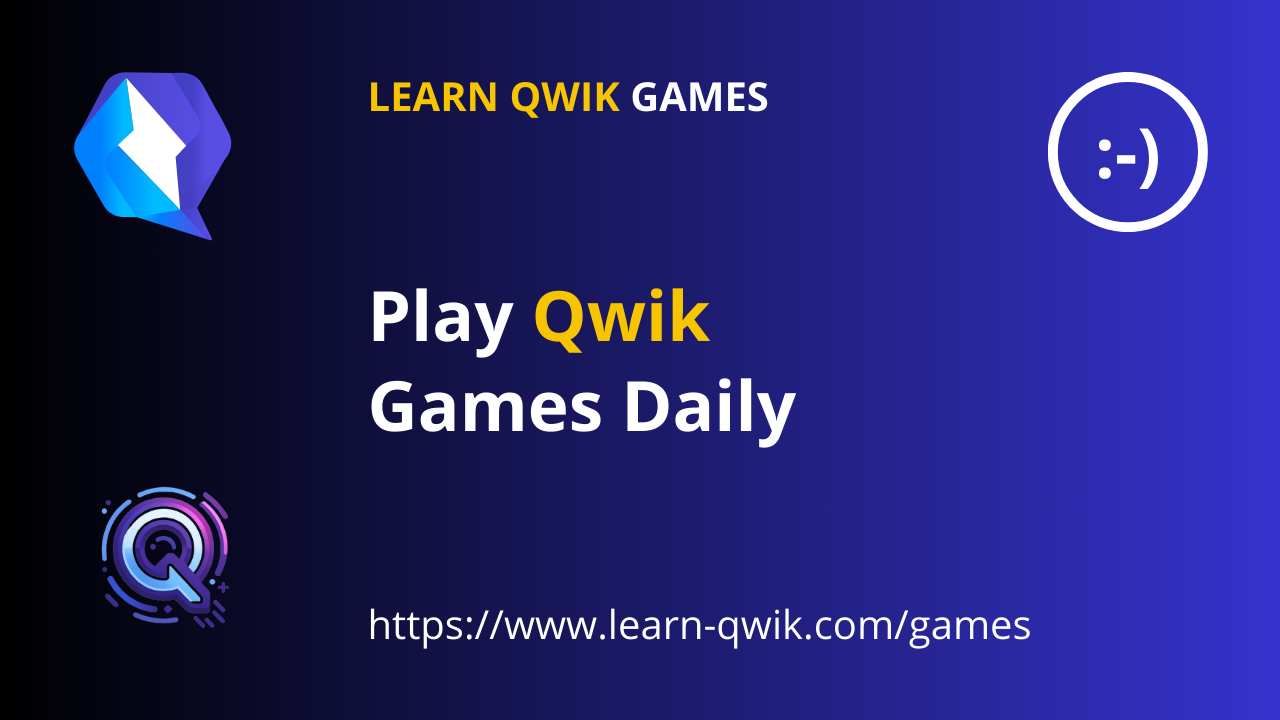
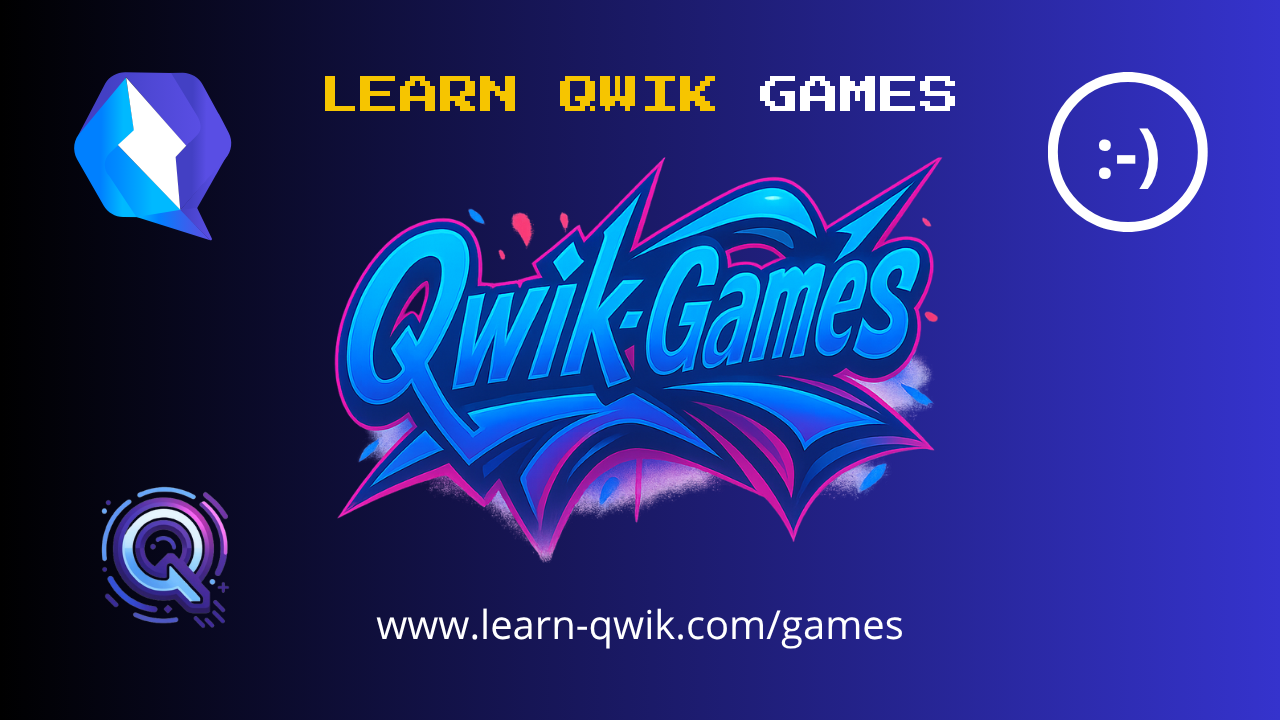
Added Retro Font and Updated Styles: Integrated the 'Press Start 2P' font into the global.css file, extended the Tailwind configuration to include the new font, and improved the game components with style adjustments for better presentation.

diff --git a/src/components/games/game/qwikpath/qwikpathContent.tsx b/src/components/games/game/qwikpath/qwikpathContent.tsx
@@ -81,12 +81,16 @@ export const QwikPathContent = component$(() => {
   `);
 
   return (
-    <div class="relative flex min-h-screen w-full flex-col items-center gap-8 bg-white py-12 md:px-12 md:py-20">
+    <div class="relative flex min-h-screen w-full flex-col items-center gap-8 bg-white py-12 font-retro md:px-12 md:py-20">
       <header class="flex flex-col items-center gap-4 px-4 md:gap-8">
-        <h1 class="max-w-[80%] text-center text-4xl font-semibold md:max-w-[100%] md:text-6xl">
-          <span class="text-blue-500">Qwik</span> Path | Daily Logic Puzzle
-        </h1>
-        <QwikPathGraf class="h-[200px] w-[300px] object-cover  md:h-[300px] md:w-[450px]" />
+        <h1 class="sr-only">Qwik Path | Daily Logic Puzzle</h1>
+
+        <QwikPathGraf class="h-[200px] w-[300px] object-cover md:h-[300px] md:w-[450px] lg:h-[400px] lg:w-[600px]" />
+
+        <p class="max-w-xl text-center text-2xl font-semibold text-gray-900 md:text-3xl">
+          Daily Logic Puzzle
+        </p>
+
         <p class="max-w-xl text-center text-gray-900">
           Connect numbers in order and fill every cell. A new puzzle every day,
           powered by Qwik.
@@ -96,11 +100,11 @@ export const QwikPathContent = component$(() => {
       <main class="relative flex w-full max-w-screen-xl flex-col justify-center gap-4 px-4 md:flex-row">
         <div class="flex w-full flex-col gap-8 md:max-w-[calc(100%-300px)]">
           <section class="w-full">
-            <div class=" flex items-center justify-between py-4">
-              <h2 class=" text-center text-2xl font-bold text-gray-900 ">
+            <div class=" flex items-center justify-between gap-8 py-4">
+              <h2 class=" text-center text-xl font-bold text-gray-900 ">
                 Top Players
               </h2>
-              <p class=" text-center text-xl font-bold text-gray-500 ">
+              <p class=" text-center text-base font-bold text-gray-500 ">
                 {totalPlayers.value?.toLocaleString()} players in total
               </p>
             </div>
@@ -164,7 +168,7 @@ export const QwikPathContent = component$(() => {
           </section>
 
           <section class="w-full">
-            <h2 class="mb-6 text-center text-2xl font-bold text-gray-900 md:text-left">
+            <h2 class="mb-6 text-center text-xl font-bold text-gray-900 md:text-left">
               Available Levels
             </h2>
             <div class="levels_grid">
@@ -182,7 +186,7 @@ export const QwikPathContent = component$(() => {
           </section>
 
           <section class="w-full">
-            <h2 class="mb-6 text-center text-2xl font-bold text-gray-900 md:text-left">
+            <h2 class="mb-6 text-center text-xl font-bold text-gray-900 md:text-left">
               Completed Levels
             </h2>
 
@@ -212,7 +216,7 @@ export const QwikPathContent = component$(() => {
           </section>
         </div>
 
-        <BackButton href="/games/" label="Back to Games" />
+        <BackButton href="/games/" label="Games" />
 
         {!isSubscribed && <DesktopStickyAd />}
       </main>

diff --git a/src/components/games/game/qwikpath/qwikPathLevel.tsx b/src/components/games/game/qwikpath/qwikPathLevel.tsx
@@ -1,8 +1,11 @@
+// src/components/games/game/qwikpath/qwikPathLevel.tsx
+
 import { component$, useStylesScoped$ } from "@builder.io/qwik";
 import { BackButton } from "~/components/UI/backButton/backButton";
 import { DesktopStickyAd } from "~/components/desktopStickyAd/desktopStickyAd";
 import { MobileStickyAd } from "~/components/mobileStickyAd/mobileStickyAd";
 
+import QwikPathGraf from "~/assets/img/games/game/gamePath/qwik-path-graf.png?jsx";
 import {
   useCompletedLevel,
   useLevel,
@@ -145,12 +148,16 @@ export const QwikPathLevel = component$(() => {
   }
 
   return (
-    <div class="relative flex min-h-screen w-full flex-col items-center gap-8 bg-white py-12 md:px-12 md:py-20">
+    <div class="relative flex min-h-screen w-full flex-col items-center gap-8 bg-white py-12 font-retro md:px-12 md:py-20">
       <header class="flex flex-col items-center gap-4 px-4 md:gap-6">
-        <h1 class="text-center text-4xl font-bold md:text-6xl">
-          <span class="text-blue-500">Qwik</span> Path | Level{" "}
-          {level.value.level_number}
-        </h1>
+        <h1 class="sr-only">Qwik Path | Level {level.value.level_number}</h1>
+
+        <QwikPathGraf class="h-[200px] w-[300px] object-cover md:h-[300px] md:w-[450px] lg:h-[400px] lg:w-[600px]" />
+
+        <p class="text-center text-2xl font-bold md:text-4xl">
+          Level {level.value.level_number}
+        </p>
+
         <p class="max-w-xl text-center text-gray-700">
           Connect the numbers in order and fill every cell of the grid to win.
         </p>
@@ -160,10 +167,10 @@ export const QwikPathLevel = component$(() => {
         <section class="flex w-full flex-col gap-6 md:max-w-[calc(100%-300px)]">
           <section class="w-full ">
             <div class=" flex items-center justify-between py-4">
-              <h2 class=" text-center text-2xl font-bold text-gray-900 md:text-left">
-                Top Players – Level {level.value.level_number}
+              <h2 class=" text-center text-xl font-bold text-gray-900 md:text-left">
+                Top Players | Level {level.value.level_number}
               </h2>
-              <p class=" text-center text-xl font-bold text-gray-500 ">
+              <p class=" text-center text-base font-bold text-gray-500 ">
                 {totalPlayersForLevel.value?.toLocaleString()} players in total
               </p>
             </div>
@@ -240,7 +247,7 @@ export const QwikPathLevel = component$(() => {
           {renderGameContent()}
         </section>
 
-        <BackButton href="/games/game/path/" label="Back to Levels" />
+        <BackButton href="/games/game/path/" label="Levels" />
 
         {!isSubscribed && <DesktopStickyAd />}
       </main>

diff --git a/src/components/games/game/qwikpath/levelCard.tsx b/src/components/games/game/qwikpath/levelCard.tsx
@@ -1,5 +1,6 @@
 import { component$ } from "@builder.io/qwik";
 import { Link } from "@builder.io/qwik-city";
+import { HiArrowRightSolid } from "@qwikest/icons/heroicons";
 
 interface LevelCardProps {
   levelNumber: number;
@@ -21,19 +22,19 @@ export const LevelCard = component$<LevelCardProps>(
       "bg-gray-500";
 
     return (
-      <div class="relative w-full rounded-xl bg-gradient-to-br from-slate-900 to-slate-800 p-4 text-white shadow-md transition-transform hover:-translate-y-1 hover:shadow-lg">
+      <div class="relative w-full  rounded-xl bg-[#1f1f1f] p-4 text-[#e0e0e0] shadow-md transition-transform hover:-translate-y-1 hover:text-white hover:shadow-lg">
         <div class="flex items-center justify-between">
-          <h3 class="text-xl font-bold">#{levelNumber}</h3>
+          <h3 class="text-lg font-bold">#{levelNumber}</h3>
           <span
-            class={`rounded-full px-2 py-0.5 text-xs font-semibold uppercase text-white ${difficultyColor}`}
+            class={`rounded-full px-4 py-2 text-xs  uppercase  ${difficultyColor}`}
           >
             {difficulty}
           </span>
         </div>
 
-        <div class="mt-2 text-sm text-gray-300">
+        <div class="mt-4  text-xs ">
           {completed ? (
-            <p>
+            <p class="align-text-bottom">
               ✅ Completed · ⏱ <span class="font-mono">{timeTaken}</span>
             </p>
           ) : (
@@ -43,14 +44,24 @@ export const LevelCard = component$<LevelCardProps>(
 
         <Link
           href={href}
-          class={`mt-4 inline-block w-full rounded-md px-4 py-2 text-center text-sm font-semibold text-white transition-all duration-200 ${
+          class={`mt-4 flex w-full items-center justify-center gap-2 rounded-md px-4 py-2 text-center text-sm transition-all  duration-200 hover:text-white ${
             completed || disabled
-              ? " bg-gray-500 hover:bg-gray-500"
-              : "bg-sky-600 hover:bg-sky-700"
+              ? " bg-gray-500 hover:bg-gray-600"
+              : "bg-sky-600 hover:bg-sky-700 "
           }`}
           tabIndex={completed || disabled ? -1 : 0}
         >
-          {completed ? "View Results →" : "Play level →"}
+          {completed ? (
+            <>
+              <p>View Results</p>
+              <HiArrowRightSolid class="strokeWidth-2 h-6 w-6 stroke-white" />
+            </>
+          ) : (
+            <>
+              <p>Play Level</p>
+              <HiArrowRightSolid class="strokeWidth-2 h-6 w-6 stroke-white" />
+            </>
+          )}
         </Link>
       </div>
     );

diff --git a/src/components/games/gamesContent.tsx b/src/components/games/gamesContent.tsx
@@ -1,5 +1,6 @@
 import { component$, useStylesScoped$ } from "@builder.io/qwik";
 import MetaQwikPath from "~/assets/img/games/game/gamePath/metaQwikPath.png?jsx";
+import QwikGamesGraf from "~/assets/img/games/game/gamePath/qwik-games-graf.png?jsx";
 import { useProfile } from "~/routes/layout";
 import { isSubscriptionActive } from "~/utils/subscription";
 import { DesktopStickyAd } from "../desktopStickyAd/desktopStickyAd";
@@ -19,20 +20,25 @@ export const GamesContent = component$(() => {
   `);
 
   return (
-    <div class="relative flex w-full flex-col items-center gap-8 bg-white py-12 md:px-12 md:py-20">
+    <div class="font-retro relative flex min-h-screen w-full flex-col items-center gap-8 bg-white py-12 md:px-12 md:py-20">
       <header class="flex flex-col items-center gap-4 px-4 md:gap-8">
-        <h1 class="max-w-[80%] text-center text-4xl font-semibold md:max-w-[100%] md:text-6xl">
-          Play <span class="text-blue-500">Qwik</span> Games Daily
-        </h1>
+        <h1 class="sr-only">Qwik Games | Logic & Speed Challenges</h1>
+
+        <QwikGamesGraf class="h-[200px] w-[300px] object-cover md:h-[300px] md:w-[450px] lg:h-[400px] lg:w-[600px]" />
+
+        <p class="max-w-xl text-center text-2xl font-semibold text-gray-900 md:text-3xl">
+          <span class="text-blue-500">Qwik</span> Games
+        </p>
+
         <p class="max-w-xl text-center text-gray-900">
-          Discover fun logic games built with Qwik. A new puzzle every day to
-          challenge your brain, and your friends.
+          Smart and fast-paced games built with Qwik, test your logic, climb the
+          leaderboard, and challenge players from around the world.
         </p>
       </header>
 
       <main class="relative flex w-full max-w-screen-2xl flex-col justify-center gap-4 px-4 md:flex-row">
         <section class="flex w-full flex-col gap-8 md:min-w-[360px] md:max-w-[calc(100%-300px)]">
-          <h2 class="text-2xl font-bold text-gray-900">
+          <h2 class="text-xl font-bold text-gray-900">
             <span class="text-blue-500">Available</span> Games
           </h2>
 

diff --git a/src/components/UI/backButton/backButton.tsx b/src/components/UI/backButton/backButton.tsx
@@ -2,7 +2,7 @@
 
 import { component$ } from "@builder.io/qwik";
 import { Link } from "@builder.io/qwik-city";
-import { HiArrowLeftOutline } from "@qwikest/icons/heroicons";
+import { HiArrowLeftSolid } from "@qwikest/icons/heroicons";
 
 interface BackButtonProps {
   href?: string;
@@ -12,15 +12,13 @@ interface BackButtonProps {
 export const BackButton = component$<BackButtonProps>(
   ({ href = "/blog/", label = "Back to Blog" }) => {
     return (
-      <div class="fixed left-4 top-20 z-50 md:left-6">
-        <Link
-          href={href}
-          class="flex items-center gap-2 rounded-full bg-[#292929] px-3 py-2 text-sm font-semibold text-[#e0e0e0] shadow-md transition duration-200 hover:bg-[#333333] hover:text-white hover:shadow-lg md:px-4 md:py-2"
-        >
-          <HiArrowLeftOutline class="h-5 w-5" />
-          <span class="hidden md:inline">{label}</span>
-        </Link>
-      </div>
+      <Link
+        href={href}
+        class="text-bold fixed  left-4 top-20 z-50  flex items-center gap-2 rounded-md bg-gray-500 px-3 py-2 text-sm  font-bold text-[#e0e0e0] shadow-md transition duration-200 hover:bg-gray-600 hover:text-white hover:shadow-lg md:left-6 md:px-4  md:py-2"
+      >
+        <HiArrowLeftSolid class="strokeWidth-2 h-6 w-6 stroke-[#e0e0e0] transition duration-200 hover:stroke-white" />
+        <p class="hidden md:inline">{label}</p>
+      </Link>
     );
   },
 );

diff --git a/src/components/games/gameCard.tsx b/src/components/games/gameCard.tsx
@@ -11,7 +11,7 @@ interface GameCardProps {
 }
 
 export const GameCard = component$<GameCardProps>(
-  ({ title, description, href, date, readTime, cta }) => {
+  ({ title, description, href, date, cta }) => {
     return (
       <Link
         href={href}
@@ -22,16 +22,15 @@ export const GameCard = component$<GameCardProps>(
         </div>
 
         <div class="flex flex-col gap-2 px-5 py-4 text-white">
-          <h3 class="text-lg font-bold">{title}</h3>
-          <p class="text-sm text-gray-300">{description}</p>
+          <h3 class="text-md font-bold">{title}</h3>
+          <p class="text-xs text-gray-300">{description}</p>
 
           <div class="mt-2 flex items-center justify-between text-xs text-gray-400">
             {date && <span>{date}</span>}
-            {readTime && <span>{readTime}</span>}
           </div>
 
           {cta && (
-            <span class="mt-4 inline-block w-max rounded-full bg-sky-500 px-4 py-1 text-xs font-semibold text-white shadow-md transition group-hover:bg-sky-600">
+            <span class="mt-4 flex w-max items-center rounded-lg bg-sky-500 px-4 py-2 text-xs  text-white shadow-md transition group-hover:bg-sky-600">
               {cta}
             </span>
           )}

diff --git a/tailwind.config.js b/tailwind.config.js
@@ -1,6 +1,12 @@
 /** @type {import('tailwindcss').Config} */
 export default {
   content: ["./src/**/*.{js,ts,jsx,tsx,mdx}"],
-  theme: {},
+  theme: {
+    extend: {
+      fontFamily: {
+        retro: ["'Press Start 2P'", "monospace"],
+      },
+    },
+  },
   plugins: [],
 };

diff --git a/src/global.css b/src/global.css
@@ -1,3 +1,5 @@
+@import url("https://fonts.googleapis.com/css2?family=Press+Start+2P&display=swap");
+
 /**
  * Tailwind CSS imports
  * View the full documentation at https://tailwindcss.com
